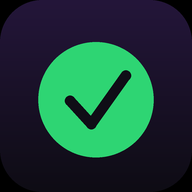
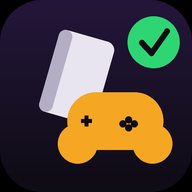
Renomeia app para "Games" e troca ícone
Novo ícone original (case + controle) substitui o placeholder
de checkmark simples, sem depender de imagens de banco de imagens.

diff --git a/index.html b/index.html
@@ -3,7 +3,7 @@
 <head>
   <meta charset="utf-8" />
   <meta name="viewport" content="width=device-width, initial-scale=1, viewport-fit=cover" />
-  <title>Meus Jogos — Zerar</title>
+  <title>Games</title>
   <meta name="description" content="Lista de jogos pra zerar. Marque os que terminou." />
   <link rel="manifest" href="manifest.webmanifest" />
   <meta name="theme-color" content="#0f0d16" />
@@ -11,7 +11,7 @@
   <link rel="apple-touch-icon" href="icons/apple-touch-icon.png" />
   <meta name="apple-mobile-web-app-capable" content="yes" />
   <meta name="apple-mobile-web-app-status-bar-style" content="black-translucent" />
-  <meta name="apple-mobile-web-app-title" content="Zerar" />
+  <meta name="apple-mobile-web-app-title" content="Games" />
   <link rel="stylesheet" href="style.css" />
 </head>
 <body>

diff --git a/sw.js b/sw.js
@@ -1,4 +1,4 @@
-const CACHE = 'zerar-v8';
+const CACHE = 'zerar-v9';
 const COVERS = ['alan-wake-2.jpg','re7.jpg','lara-croft-go.jpg','tr1.png','re-rev.jpg',
   'tr2.png','re0.jpg','uncharted-2.jpg','tr3.png','re1.jpg','uncharted-3.jpg','tr4.png',
   'gta3.jpg','re5.jpg','tr5.png','gta-vc.jpg','re6.jpg','tr6.png','mafia-3.jpg',

diff --git a/generate-icons.py b/generate-icons.py
@@ -7,6 +7,9 @@ os.makedirs(OUT, exist_ok=True)
 def lerp(a, b, t):
     return tuple(int(a[i] + (b[i] - a[i]) * t) for i in range(3))
 
+def rrect(d, box, r, **kw):
+    d.rounded_rectangle(box, radius=r, **kw)
+
 def make(size, maskable=False):
     S = size * 4  # supersample
     img = Image.new("RGB", (S, S), (15, 13, 22))
@@ -15,7 +18,6 @@ def make(size, maskable=False):
     for y in range(S):
         d.line([(0, y), (S, y)], fill=lerp(top, bot, y / S))
 
-    # rounded corners (skip if maskable -> full bleed)
     if not maskable:
         r = int(S * 0.22)
         mask = Image.new("L", (S, S), 0)
@@ -25,17 +27,58 @@ def make(size, maskable=False):
         img = bg
         d = ImageDraw.Draw(img)
 
-    # checkmark in a soft circle
-    cx, cy = S * 0.5, S * 0.52
-    rad = S * (0.26 if maskable else 0.30)
-    d.ellipse([cx - rad, cy - rad, cx + rad, cy + rad], fill=(46, 213, 115))
-    lw = int(S * 0.055)
-    p1 = (cx - rad * 0.45, cy + rad * 0.02)
-    p2 = (cx - rad * 0.08, cy + rad * 0.42)
-    p3 = (cx + rad * 0.52, cy - rad * 0.42)
-    d.line([p1, p2, p3], fill=(15, 13, 22), width=lw, joint="curve")
-    for p in (p1, p2, p3):
-        d.ellipse([p[0]-lw/2, p[1]-lw/2, p[0]+lw/2, p[1]+lw/2], fill=(15, 13, 22))
+    pad = 1.0 if maskable else 0.0  # extra inset for maskable safe zone
+    cx = S * 0.5
+
+    # game case (tilted rounded rectangle), tucked to upper-left
+    case_w, case_h = S * 0.30, S * 0.44
+    case_cx, case_cy = S * (0.40 - pad*0.03), S * (0.40 - pad*0.03)
+    case = Image.new("RGBA", (S, S), (0, 0, 0, 0))
+    cd = ImageDraw.Draw(case)
+    rrect(cd, [case_cx - case_w/2, case_cy - case_h/2, case_cx + case_w/2, case_cy + case_h/2],
+          r=S*0.045, fill=(232, 228, 240, 255))
+    # spine shadow stripe
+    rrect(cd, [case_cx - case_w/2, case_cy - case_h/2, case_cx - case_w/2 + S*0.07, case_cy + case_h/2],
+          r=S*0.045, fill=(180, 174, 196, 255))
+    case = case.rotate(-16, resample=Image.BICUBIC, center=(case_cx, case_cy))
+    img.paste(case, (0, 0), case)
+    d = ImageDraw.Draw(img)
+
+    # controller body, lower-right, overlapping the case
+    ctl_w, ctl_h = S * 0.50, S * 0.30
+    ctl_cx, ctl_cy = S * (0.60 + pad*0.02), S * (0.63 + pad*0.02)
+    amber = (245, 166, 35)
+    rrect(d, [ctl_cx - ctl_w/2, ctl_cy - ctl_h/2, ctl_cx + ctl_w/2, ctl_cy + ctl_h/2],
+          r=ctl_h*0.5, fill=amber)
+    # grips
+    grip_r = ctl_h * 0.46
+    d.ellipse([ctl_cx - ctl_w/2 - grip_r*0.35, ctl_cy + ctl_h*0.05,
+               ctl_cx - ctl_w/2 + grip_r*1.15, ctl_cy + ctl_h*0.05 + grip_r*1.5], fill=amber)
+    d.ellipse([ctl_cx + ctl_w/2 - grip_r*1.15, ctl_cy + ctl_h*0.05,
+               ctl_cx + ctl_w/2 + grip_r*0.35, ctl_cy + ctl_h*0.05 + grip_r*1.5], fill=amber)
+    # face buttons
+    br = S * 0.018
+    for dx, dy in [(0.14, -0.02), (0.20, 0.05), (0.14, 0.12), (0.08, 0.05)]:
+        d.ellipse([ctl_cx + ctl_w*dx - br, ctl_cy + ctl_h*dy - br,
+                   ctl_cx + ctl_w*dx + br, ctl_cy + ctl_h*dy + br], fill=(15, 13, 22))
+    # d-pad
+    dpx, dpy = ctl_cx - ctl_w*0.30, ctl_cy
+    dl = S * 0.028
+    d.rectangle([dpx - dl, dpy - dl*0.35, dpx + dl, dpy + dl*0.35], fill=(15, 13, 22))
+    d.rectangle([dpx - dl*0.35, dpy - dl, dpx + dl*0.35, dpy + dl], fill=(15, 13, 22))
+
+    # small green check badge, top-right
+    if not maskable:
+        rad = S * 0.135
+        bx, by = S * 0.80, S * 0.22
+        d.ellipse([bx - rad, by - rad, bx + rad, by + rad], fill=(46, 213, 115))
+        lw = int(S * 0.03)
+        p1 = (bx - rad*0.45, by + rad*0.02)
+        p2 = (bx - rad*0.08, by + rad*0.42)
+        p3 = (bx + rad*0.52, by - rad*0.42)
+        d.line([p1, p2, p3], fill=(15, 13, 22), width=lw, joint="curve")
+        for p in (p1, p2, p3):
+            d.ellipse([p[0]-lw/2, p[1]-lw/2, p[0]+lw/2, p[1]+lw/2], fill=(15, 13, 22))
 
     return img.resize((size, size), Image.LANCZOS)
 
